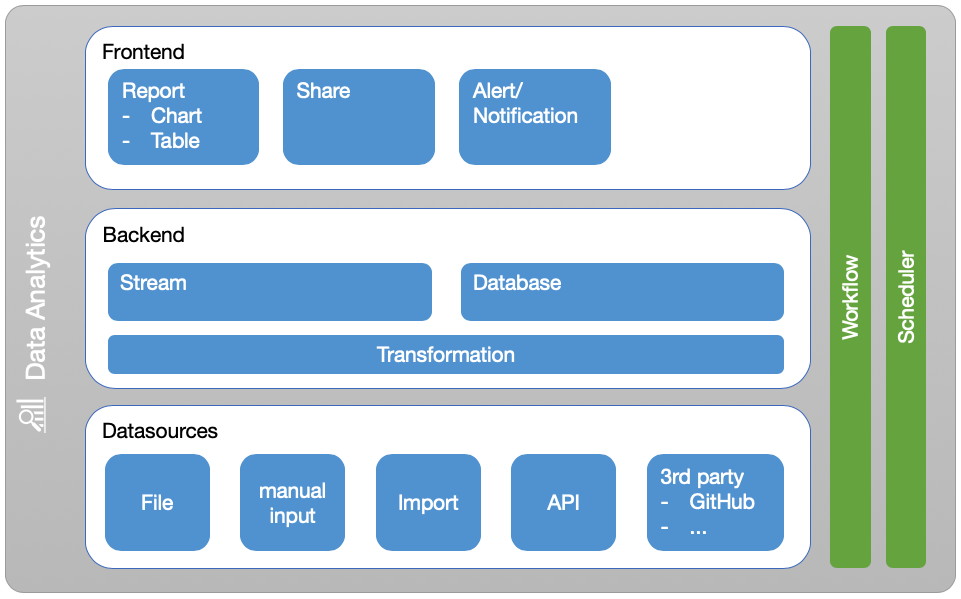
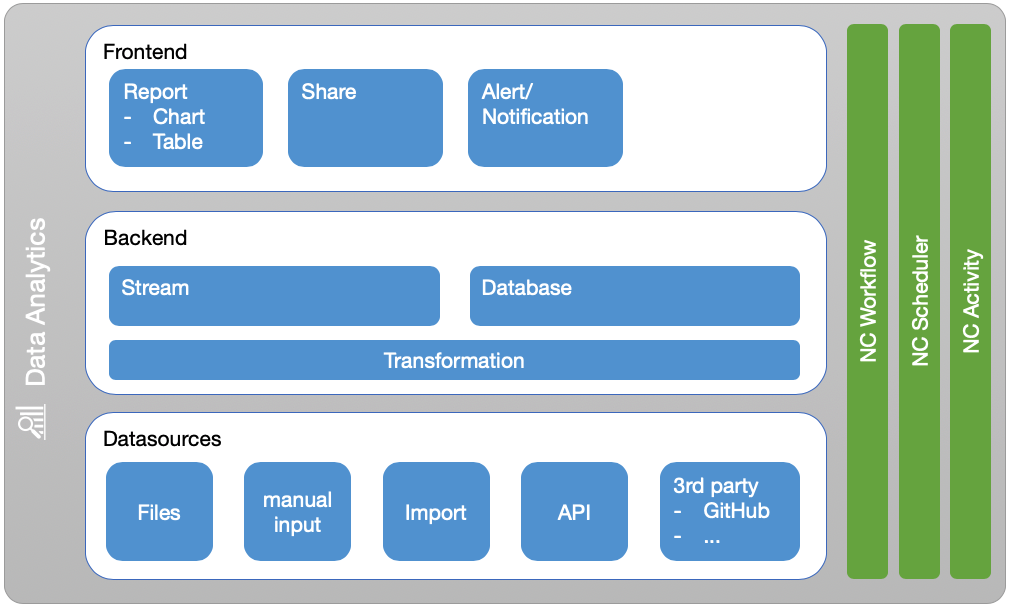
1.0.0 release

diff --git a/lib/Controller/DatasetController.php b/lib/Controller/DatasetController.php
@@ -97,7 +97,7 @@ class DatasetController extends Controller
             $parent = 0;
             $type = DataSourceController::DATASET_TYPE_EXTERNAL_FILE;
             $link = 'https://raw.githubusercontent.com/Rello/analytics/master/sample_data/sample1.csv';
-            $visualization = 'table';
+            $visualization = 'ct';
             $chart = 'line';
             $this->update($datasetId, $name, $subheader, $parent, $type, $link, $visualization, $chart, '', '', '');
         } elseif ($file !== '') {
@@ -105,7 +105,8 @@ class DatasetController extends Controller
             $subheader = $file;
             $parent = 0;
             $type = DataSourceController::DATASET_TYPE_INTERNAL_FILE;
-            $visualization = 'ct';
+            $link = $file;
+            $visualization = 'table';
             $chart = 'line';
             $this->update($datasetId, $name, $subheader, $parent, $type, $link, $visualization, $chart, '', '', '');
         }
@@ -124,7 +125,7 @@ class DatasetController extends Controller
         $this->ShareController->deleteShareByDataset($datasetId);
         $this->DBController->deleteDataByDataset($datasetId);
         $this->DBController->deleteDataset($datasetId);
-        $this->ActivityManager->triggerEvent($datasetId, ActivityManager::OBJECT_DATASET, ActivityManager::SUBJECT_DATASET_DELETE);
+        $this->ActivityManager->triggerEvent(0, ActivityManager::OBJECT_DATASET, ActivityManager::SUBJECT_DATASET_DELETE);
         return true;
     }
 

diff --git a/templates/part.content.php b/templates/part.content.php
@@ -33,8 +33,8 @@
     <a href="#" id="createDemoReport">-&nbsp;<?php p($l->t('Create demo report on external CSV data')); ?></a>
     <br>
     <h3><?php p($l->t('Recent')); ?></h3>
-    <span>-&nbsp;<?php p($l->t('Recent placeholder')); ?></span>
+    <span>-&nbsp;<?php p($l->t('coming soon')); ?></span>
     <br>
     <h3><?php p($l->t('Updates')); ?></h3>
-    <span>-&nbsp;<?php p($l->t('Updates placeholder')); ?></span>
+    <span>-&nbsp;<?php p($l->t('coming soon')); ?></span>
 </div>

diff --git a/README.md b/README.md
@@ -2,16 +2,16 @@
 
 [![Version](https://img.shields.io/github/release/rello/analytics.svg)](https://github.com/rello/analytics/blob/master/CHANGELOG.md)&#160;[![License: AGPLv3](https://img.shields.io/badge/license-AGPLv3-blue.svg)](http://www.gnu.org/licenses/agpl-3.0)&#160;&#160;&#160;[![Scrutinizer Code Quality](https://scrutinizer-ci.com/g/rello/analytics/badges/quality-score.png?b=master)](https://scrutinizer-ci.com/g/rello/analytics/?branch=master)&#160;&#160;&#160;[![Bitcoin](https://img.shields.io/badge/donate-Bitcoin-blue.svg)](https://github.com/rello/audioplayer/wiki/donate)&#160;[![PayPal](https://img.shields.io/badge/donate-PayPal-blue.svg)](https://github.com/rello/audioplayer/wiki/donate)
 
-From datasouce to reporting. Data Analytics provides modular datasources, a realtime or storage backend and flexibile visualization.
+From data to report. Data Analytics provides modular datasources, a realtime or storage backend and flexibile visualization.
 
 <img src="https://raw.githubusercontent.com/rello/data/master/screenshots/logo.png" alt="Main" width="350" title="Data Analytics">
 
 ## Features
-- Datasources: manual entry, files, imports, API
+- Datasources: local/remote File, API, imports, manual entry
 - 3rd party*: GitHub Statistics
 - Storage: stream or database
 - Visualization: charts, tables
-- Integration: notifications/alerts (thresholds)* workflows*
+- Integration: Files app, NC Activity, NC Notifications* (thresholds), NC workflows*
 - Shareing: user*, protected, public
 
 (*work in progress)

diff --git a/CHANGELOG.md b/CHANGELOG.md
@@ -1,7 +1,7 @@
 # Changelog
 All notable changes to this project will be documented in this file.
 
-## 1.0.0 - pending
+## 1.0.0 - 2019-12-01
 
 ### Added
-- Initial version of Data & Analytics
+- Initial version of Data Analytics
